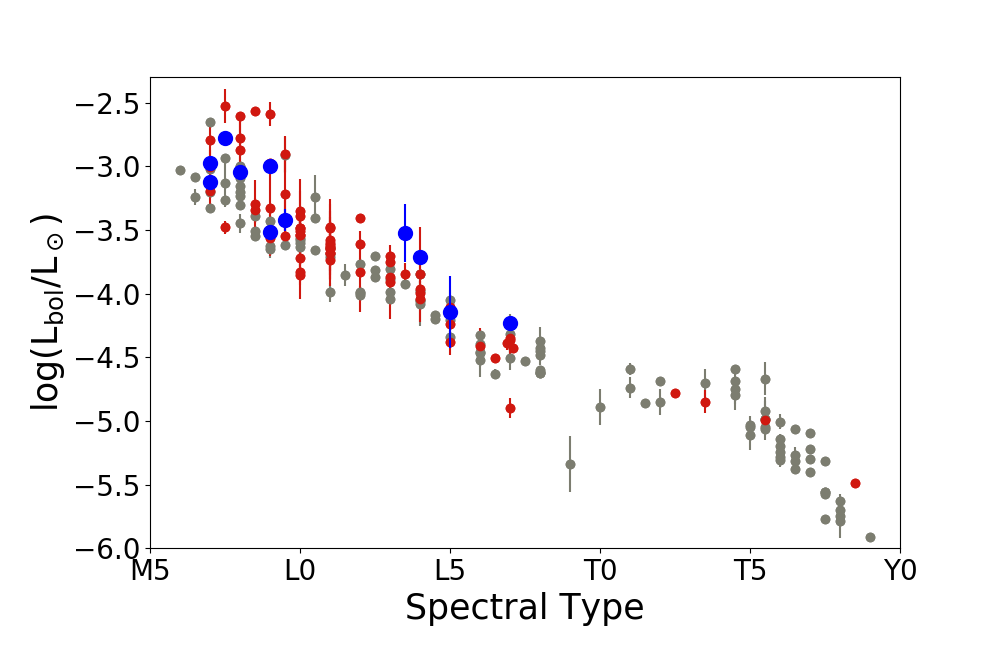
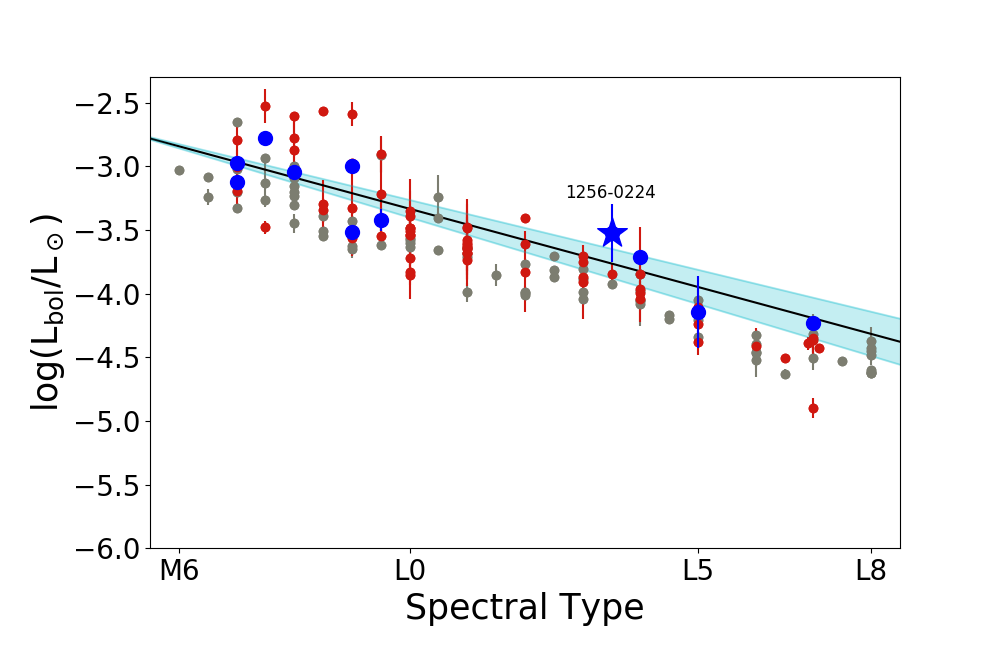
Added fits and labeled 1256

diff --git a/SpTvTeff.py b/SpTvTeff.py
@@ -17,18 +17,18 @@ df_fld = df_comb[(df_comb['grav'] == 3)]
 df_young = df_comb[(df_comb['grav'] >= 1) & (df_comb['grav'] <= 2)]
 
 # -------------------------------------------------------------------------------------
-# ------------------------- Make Plot: Spt v Teff ------------------------------------
+# ------------------------- Make Plot: Spt v Teff -------------------------------------
 # -------------------------------------------------------------------------------------
 # ------ Set up figure layout --------
 fig = plt.figure()
 ax1 = fig.add_subplot(111)
 fig.set_size_inches(10, 6.45)  # to make sure proper size run entire code at once and change 8 to 6.45 to
 plt.gcf().subplots_adjust(bottom=0.15, left=0.15)
-plt.xlim([5, 30])
+plt.xlim([5.5, 18.5])
 plt.ylim([500, 3200])
 
 # ------ Axes Labels --------
-plt.xticks([5, 10, 15, 20, 25, 30], ['M5', 'L0', 'L5', 'T0', 'T5', 'Y0'], fontsize=20)
+plt.xticks([6, 10, 15, 18], ['M6', 'L0', 'L5', 'L8'], fontsize=20)
 plt.yticks(fontsize=20)
 plt.xlabel('Spectral Type', fontsize=25)
 plt.ylabel('T$_\mathrm{eff}$ (K)', fontsize=25)
@@ -42,9 +42,60 @@ plt.scatter(df_sub['SpT'], df_sub['Teff'], color='blue', s=100, zorder=5)
 ax1.errorbar(df_sub['SpT'], df_sub['Teff'], yerr=df_sub['Teff_err'], c='blue', fmt='o', zorder=6)
 # zorder makes it go on top even if it covers other points!
 
+# --- Designate 1256-0224 -----
+plt.scatter(df_sub['SpT'][0], df_sub['Teff'][0], color='blue', s=500, zorder=7, marker="*")
+ax1.annotate('1256-0224', xy=(12.7, 2700), color='k', fontsize=12)
+
+# -------------------------------------------------------------------------------------
+# ------------------------- Polynomial fits  -----------------------------------------
+# -------------------------------------------------------------------------------------
 # ------ Fit polynomial for subdwarfs ------
-# drop nan from coulmn need to get polynomial
+# drop nan from column need to get polynomial
 df_subpoly = df_sub[pd.notnull(df_sub['Teff'])]
-np.polyfit(df_subpoly['SpT'], df_subpoly['Teff'], 1)
+
+# --- Get uncertainites for upper and lower teff limits ----
+df_subpoly['Terr_up'] = df_subpoly['Teff'] + df_subpoly['Teff_err']
+df_subpoly['Terr_d'] = df_subpoly['Teff'] - df_subpoly['Teff_err']
+
+# ------ Fit the values --------
+coeffs = np.polyfit(df_subpoly['SpT'], df_subpoly['Teff'], 1)
+line = np.poly1d(coeffs)
+
+coeffs_up = np.polyfit(df_subpoly['SpT'], df_subpoly['Terr_up'], 1)
+line_up = np.poly1d(coeffs_up)
+
+coeffs_d = np.polyfit(df_subpoly['SpT'], df_subpoly['Terr_d'], 1)
+line_d = np.poly1d(coeffs_d)
+
+# ---- Plot the fit lines -----
+xp = np.linspace(5, 30, 100)
+plt.plot(xp, line(xp), '-', color='k')
+plt.plot(xp, line_up(xp), '-', color='#17becf', alpha=.25)
+plt.plot(xp, line_d(xp), '-', color='#17becf', alpha=.25)
+ax1.fill_between(xp, line_up(xp), line_d(xp), alpha=.25, color='#17becf')
 
 plt.savefig('Plots/SptvTeff.png')
+
+# From this example on curve fitting using the cov=True
+# https://stackoverflow.com/questions/28505008/numpy-polyfit-how-to-get-1-sigma-uncertainty-around-the-estimated-curve
+# Doesn't look much different
+# x= df_subpoly['SpT']
+# y = df_subpoly['Teff']
+# n = 1
+# p, C_p = np.polyfit(x, y, n, cov=True)  # C_z is estimated covariance matrix
+# # Do the interpolation for plotting:
+# t = np.linspace(5, 19, 500)
+# # Matrix with rows 1, t, t**2, ...:
+# TT = np.vstack([t**(n-i) for i in range(n+1)]).T
+# yi = np.dot(TT, p)  # matrix multiplication calculates the polynomial values
+# C_yi = np.dot(TT, np.dot(C_p, TT.T)) # C_y = TT*C_z*TT.T
+# sig_yi = np.sqrt(np.diag(C_yi))  # Standard deviations are sqrt of diagonal
+# # Do the plotting:
+# fg, ax = plt.subplots(1, 1)
+# ax.set_title("Fit for Polynomial (degree {}) with $\pm1\sigma$-interval".format(n))
+# ax.fill_between(t, yi+sig_yi, yi-sig_yi, alpha=.25)
+# ax.plot(t, yi,'-')
+# ax.plot(x, y, 'ro')
+# ax.axis('tight')
+# fg.canvas.draw()
+# plt.show()

diff --git a/SptvLbol.py b/SptvLbol.py
@@ -1,5 +1,6 @@
 import pandas as pd
 import matplotlib.pyplot as plt
+import numpy as np
 
 df_sub = pd.read_csv('Data/Subdwarf_Spt_v_Teff.txt', sep=" ", comment='#', header=None,
                      names=["name", "SpT", "Teff", 'Teff_err', 'lbol', 'lbol_err', 'mass', 'mass_unc', 'MJ', 'MJ_unc',
@@ -23,11 +24,11 @@ fig = plt.figure()
 ax1 = fig.add_subplot(111)
 fig.set_size_inches(10, 6.45)  # to make sure proper size run entire code at once and change 8 to 6.45 to
 plt.gcf().subplots_adjust(bottom=0.15, left=0.15)
-plt.xlim([5, 30])
+plt.xlim([5.5, 18.5])
 plt.ylim([-6, -2.3])
 
 # ------ Axes Labels --------
-plt.xticks([5, 10, 15, 20, 25, 30], ['M5', 'L0', 'L5', 'T0', 'T5', 'Y0'], fontsize=20)
+plt.xticks([6, 10, 15, 18], ['M6', 'L0', 'L5', 'L8'], fontsize=20)
 plt.yticks(fontsize=20)
 plt.xlabel('Spectral Type', fontsize=25)
 plt.ylabel('log(L$_\mathrm{bol}$/L$_\odot$)', fontsize=25)
@@ -39,5 +40,37 @@ plt.scatter(df_young['spt'], df_young['Lbol'], color='#D01810')
 ax1.errorbar(df_young['spt'], df_young['Lbol'], yerr=df_young['Lbol_err'], c='#D01810', fmt='o')
 plt.scatter(df_sub['SpT'], df_sub['lbol'], color='blue', s=100, zorder=5)
 ax1.errorbar(df_sub['SpT'], df_sub['lbol'], yerr=df_sub['lbol_err'], c='blue', fmt='o', zorder=6)
+
+# --- Designate 1256-0224 -----
+plt.scatter(df_sub['SpT'][0], df_sub['lbol'][0], color='blue', s=500, zorder=7, marker="*")
+ax1.annotate('1256-0224', xy=(12.7, -3.25), color='k', fontsize=12)
+
+# -------------------------------------------------------------------------------------
+# ------------------------- Polynomial fits  -----------------------------------------
+# -------------------------------------------------------------------------------------
+# ------ Fit polynomial for subdwarfs ------
+# drop nan from column need to get polynomial
+df_subpoly = df_sub[pd.notnull(df_sub['lbol'])]
+
+# --- Get uncertainites for upper and lower teff limits ----
+df_subpoly['Lbol_up'] = df_subpoly['lbol'] + df_subpoly['lbol_err']
+df_subpoly['Lbol_d'] = df_subpoly['lbol'] - df_subpoly['lbol_err']
+
+# ------ Fit the values --------
+coeffs = np.polyfit(df_subpoly['SpT'], df_subpoly['lbol'], 1)
+line = np.poly1d(coeffs)
+
+coeffs_up = np.polyfit(df_subpoly['SpT'], df_subpoly['Lbol_up'], 1)
+line_up = np.poly1d(coeffs_up)
+
+coeffs_d = np.polyfit(df_subpoly['SpT'], df_subpoly['Lbol_d'], 1)
+line_d = np.poly1d(coeffs_d)
+
+# ---- Plot the fit lines -----
+xp = np.linspace(5, 30, 100)
+plt.plot(xp, line(xp), '-', color='k')
+plt.plot(xp, line_up(xp), '-', color='#17becf', alpha=.25)
+plt.plot(xp, line_d(xp), '-', color='#17becf', alpha=.25)
+ax1.fill_between(xp, line_up(xp), line_d(xp), alpha=.25, color='#17becf')
 
 plt.savefig('Plots/SptvLbol.png')
